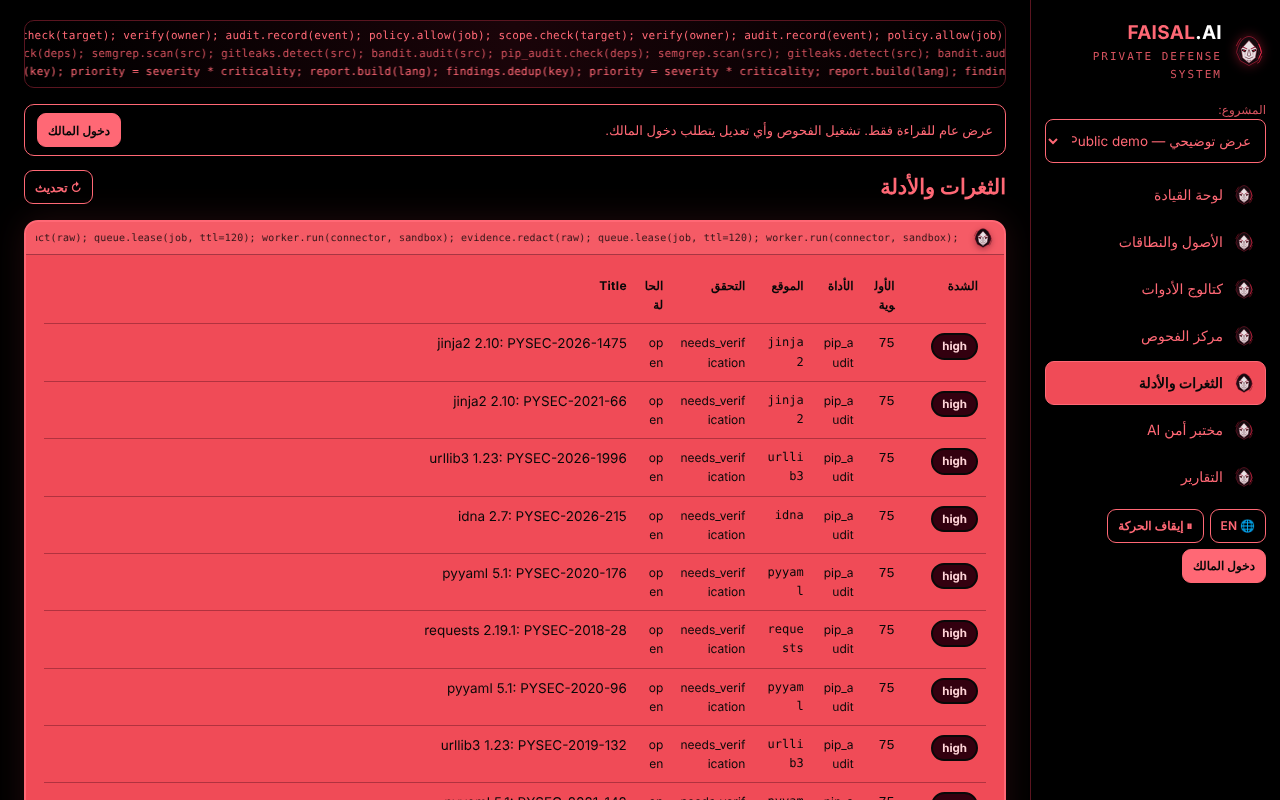
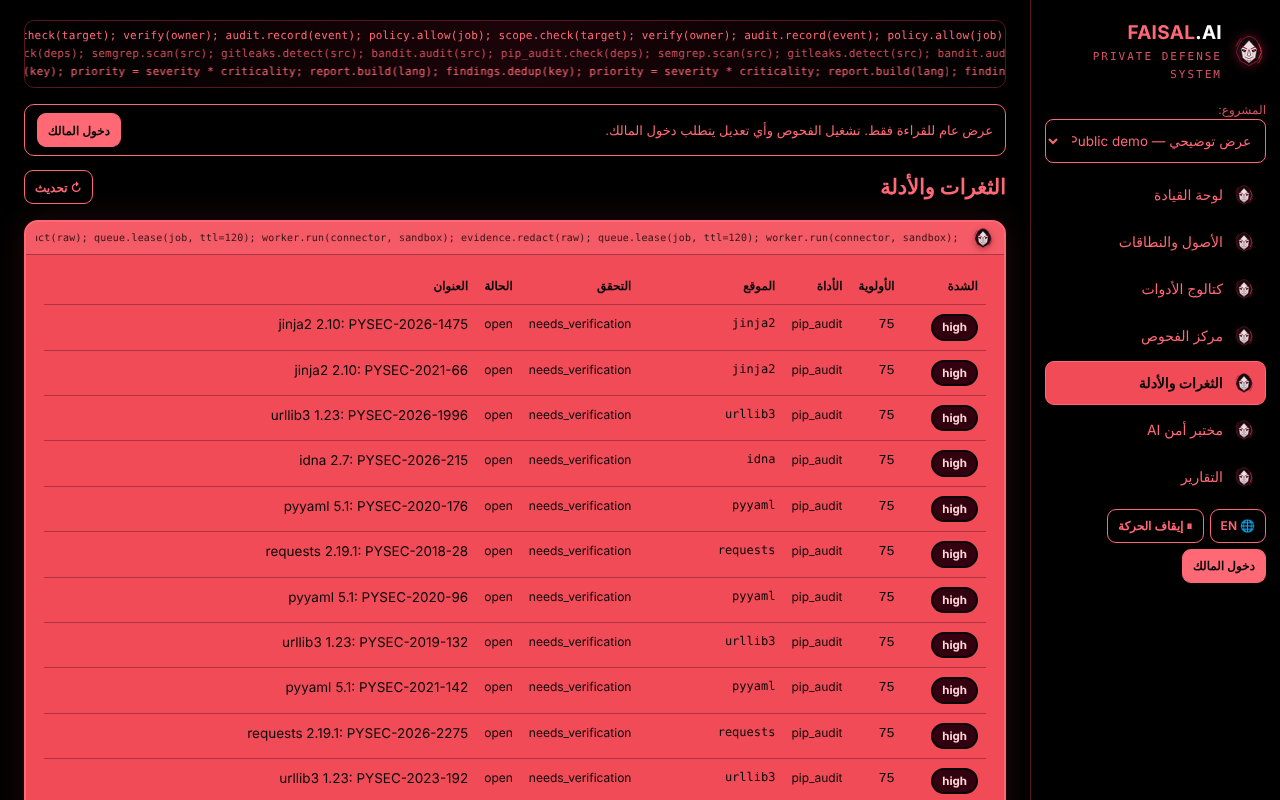
Make the console usable on a phone and stop probing every tool when a screen opens
- Tables with headings are shown as a list on a phone (each value after its
  column name). Before, the page's break-anywhere rule let columns shrink to
  one letter per line.
- Inputs without a type attribute now get the form styling; they kept the
  browser's fixed width and pushed two owner screens wider than the phone.
- GET /api/connectors is answered from the stored tool registry for signed-in
  callers too. It ran every tool's version command on each call, so opening
  Assets or Scans took seconds on a laptop and would take minutes on a
  0.1-CPU instance. ?live=1 still probes; before the first sync has finished
  the listing says the tools are being checked.
- The findings table's Title heading is translated.
- Screenshots retaken; test counts updated (280).

Claude-Session: https://claude.ai/code/session_01CMJzrzNCwDyxNvxZSMQwSR

diff --git a/faisal-security-lab/web/app.js b/faisal-security-lab/web/app.js
@@ -33,6 +33,7 @@ const I18N = {
     open:"فتح", download:"تنزيل", report_note:"التقارير منقّحة: القيم الحساسة محجوبة.",
     throttled:"محاولات دخول خاطئة كثيرة من هذا الجهاز. انتظر {m} دقيقة ثم حاول من جديد.",
     signinbusy:"تسجيل الدخول مشغول الآن. انتظر بضع ثوانٍ ثم حاول من جديد.",
+    ftitle:"العنوان",
     connection:"الاتصال", yourip:"عنوانك كما يراه الخادم", ipsource:"مصدر العنوان",
     src_header:"ترويسة منصّة الاستضافة", src_forwarded:"X-Forwarded-For", src_peer:"اتصال مباشر",
     proxywarn:"تصل الطلبات عبر وسيط لكن الخادم غير مضبوط للوثوق به، فيظهر كل الزوّار بعنوان واحد وتُحتسب محاولات الدخول الخاطئة عليهم جميعًا. اضبط FSL_CLIENT_IP_HEADER في إعدادات الاستضافة.",
@@ -62,6 +63,7 @@ const I18N = {
     open:"Open", download:"Download", report_note:"Reports are redacted: sensitive values are withheld.",
     throttled:"Too many wrong sign-in attempts from this device. Wait {m} minutes, then try again.",
     signinbusy:"Sign-in is busy right now. Wait a few seconds, then try again.",
+    ftitle:"Title",
     connection:"Connection", yourip:"Your address as the server sees it", ipsource:"Address source",
     src_header:"hosting platform header", src_forwarded:"X-Forwarded-For", src_peer:"direct connection",
     proxywarn:"Requests arrive through a proxy the server is not set to trust, so every visitor appears under one address and wrong sign-in attempts count against all of them. Set FSL_CLIENT_IP_HEADER in the hosting settings.",
@@ -204,6 +206,15 @@ function decorate(){
     if (tb.parentElement.classList.contains("tablewrap")) return;
     const wrap = document.createElement("div"); wrap.className = "tablewrap";
     tb.parentNode.insertBefore(wrap, tb); wrap.appendChild(tb);
+  });
+  // Name every cell after its column, so a phone can show a row as a list.
+  document.querySelectorAll(".tablewrap > table").forEach(tb => {
+    const heads = [...tb.querySelectorAll("thead th")].map(th => th.textContent.trim());
+    if (!heads.length) return;
+    tb.classList.add("stack");
+    tb.querySelectorAll("tbody > tr").forEach(tr => [...tr.children].forEach((td, i) => {
+      if (!td.hasAttribute("data-label") && !td.hasAttribute("colspan")) td.setAttribute("data-label", heads[i] || "");
+    }));
   });
   if (S.guest && !S.token) document.querySelectorAll(OWNER_ACTS).forEach(el => el.setAttribute("data-owner",""));
 }
@@ -387,7 +398,7 @@ async function scrScans(){
     + h`<div class="card"><h2>${esc(t("run"))}</h2>
       <form id="scanform" class="row">
         <div><label>${esc(t("scope"))}</label><select name="scope_id">${activeScopes.map(s=>`<option value="${s.id}" data-asset="${s.asset_id}" data-types='${JSON.stringify(s.scan_types)}'>${esc(s.asset_id)} · ${esc(s.environment)}</option>`).join("")}</select></div>
-        <div><label>${esc(t("connector"))}</label><select name="connector" id="connsel">${conn.connectors.map(c=>`<option value="${c.name}">${c.name} ${c.readiness.available?"":"(blocked)"}</option>`).join("")}</select></div>
+        <div><label>${esc(t("connector"))}</label><select name="connector" id="connsel">${conn.connectors.map(c=>`<option value="${c.name}">${c.name} ${c.readiness.available?"":(c.state==="checking"?"(…)":"(blocked)")}</option>`).join("")}</select></div>
         <div><button class="btn primary">${esc(t("run"))}</button></div>
       </form><div class="small muted" style="margin-top:6px">${esc(t("unauthorized"))}</div></div>
     <div class="card"><h2>${esc(t("jobs"))}</h2><table><thead><tr><th>${esc(t("connector"))}</th><th>${esc(t("status"))}</th><th>phase</th><th>progress</th><th>${esc(t("tool"))}</th><th></th></tr></thead>
@@ -403,7 +414,7 @@ async function scrFindings(){
   const pid=S.project.id;
   const f=await api(`/api/projects/${pid}/findings`);
   setMain(topbar(t("findings"), `<button class="btn sm" data-act="refresh">↻ ${esc(t("refresh"))}</button>`)
-    + h`<div class="card"><table><thead><tr><th>${esc(t("severity"))}</th><th>${esc(t("priority"))}</th><th>${esc(t("tool"))}</th><th>${esc(t("location"))}</th><th>${esc(t("verification"))}</th><th>${esc(t("status"))}</th><th>Title</th></tr></thead>
+    + h`<div class="card"><table><thead><tr><th>${esc(t("severity"))}</th><th>${esc(t("priority"))}</th><th>${esc(t("tool"))}</th><th>${esc(t("location"))}</th><th>${esc(t("verification"))}</th><th>${esc(t("status"))}</th><th>${esc(t("ftitle"))}</th></tr></thead>
       <tbody>${f.findings.map(x=>{const loc=x.location||{};const L=(loc.file||loc.url||loc.host||loc.package||"")+(loc.line?":"+loc.line:"");
         return `<tr data-act="finding" data-fid="${x.id}" style="cursor:pointer"><td><span class="badge sev-${x.severity}">${x.severity}</span></td>
         <td class="mono">${x.work_priority}</td><td class="small">${esc(x.connector)}</td><td class="mono-sm">${esc(L)}</td>

diff --git a/faisal-security-lab/web/app.css b/faisal-security-lab/web/app.css
@@ -125,7 +125,13 @@ select#projsel{width:100%;background:#000;border:1px solid var(--text);color:var
 /* tables inside cards scroll sideways on a phone instead of breaking the page */
 .tablewrap{overflow-x:auto;margin-inline:-6px;padding-inline:6px}
 table{width:100%;border-collapse:collapse;font-size:13.5px}
-th,td{border-block-end:1px solid #33000f55;padding:9px 8px;text-align:start;vertical-align:top}
+th,td{border-block-end:1px solid #33000f55;padding:9px 8px;text-align:start;vertical-align:top;
+  overflow-wrap:break-word}
+/* The page breaks long words anywhere, which lets a table column shrink to one
+   letter. In a table a column is at least as wide as its longest word, and the
+   table scrolls inside its card if that does not fit. */
+th{white-space:nowrap}
+td.mono-sm{overflow-wrap:anywhere;min-width:9rem}
 th{font-weight:750;font-size:12px;letter-spacing:.3px}
 tr[data-act]{cursor:pointer}
 tr[data-act]:hover td{background:#ff7a8355}
@@ -140,7 +146,7 @@ tr[data-act]:hover td{background:#ff7a8355}
 .card .pill,.drawer .pill,.stat .pill,.login .pill{border-color:var(--stroke)}
 
 label{display:block;font-size:12.5px;font-weight:700;margin:10px 0 4px}
-input[type=text],input[type=email],input[type=password],input[type=number],select,textarea{
+input:not([type]),input[type=text],input[type=email],input[type=password],input[type=number],select,textarea{
   width:100%;background:var(--card2);border:1px solid var(--stroke);color:var(--ink);
   padding:9px 10px;border-radius:8px;font-size:15px;min-height:44px;caret-color:var(--ink)}
 input::placeholder,textarea::placeholder{color:#3a1118;opacity:1}
@@ -215,6 +221,17 @@ body.guest form,body.guest [data-owner]{display:none !important}
   .grid.cols-4{grid-template-columns:repeat(2,minmax(0,1fr))}
   .grid.cols-3,.grid.cols-2{grid-template-columns:1fr}
   .kv{grid-template-columns:1fr}
+}
+/* On a phone a table with headings is shown as a list: one block per row,
+   each value after its heading (set as data-label by the script). */
+@media (max-width:640px){
+  table.stack,table.stack tbody,table.stack tr,table.stack td{display:block;width:100%}
+  table.stack thead{position:absolute;width:1px;height:1px;overflow:hidden;clip-path:inset(50%)}
+  table.stack tr{border-block-end:2px solid #33000f66;padding-block:8px}
+  table.stack tr:last-child{border-block-end:0}
+  table.stack td{border:0;padding:3px 0;min-width:0;overflow-wrap:anywhere}
+  table.stack td[data-label]:not([data-label=""])::before{content:attr(data-label) ": ";font-weight:700;
+    font-family:Tahoma,'Segoe UI',Arial,sans-serif;font-size:13.5px}
 }
 @media (prefers-reduced-motion:reduce){
   html:not(.motion) .mask .laser,html:not(.motion) .codebar>span{animation-play-state:paused}

diff --git a/faisal-security-lab/tests/test_public_view_hardening.py b/faisal-security-lab/tests/test_public_view_hardening.py
@@ -939,12 +939,21 @@ class TestGuestConnectorListing(HardeningCase):
                 self.assertEqual(self.get("/api/connectors")[0], 200)
             self.assertEqual(live.call_count, 0)
             self.assertEqual(self.probes, [])
-            # A signed-in caller still gets a live probe on every request.
+            # A signed-in caller is answered from the registry too: opening a
+            # screen must not run every tool's version command.
             token = self.owner_token()
             for _ in range(2):
-                self.assertEqual(self.get("/api/connectors", token=token)[0], 200)
-            self.assertEqual(live.call_count, 2)
-        self.assertGreater(len(self.probes), 5)
+                status, body = self.get("/api/connectors", token=token)
+                self.assertEqual(status, 200)
+                self.assertGreater(len(body["connectors"]), 5)
+            self.assertEqual((live.call_count, self.probes), (0, []))
+            # A fresh probe is there when asked for.
+            self.assertEqual(self.get("/api/connectors?live=1", token=token)[0], 200)
+            self.assertEqual(live.call_count, 1)
+            # The flag does nothing for a guest.
+            self.probes.clear()
+            self.assertEqual(self.get("/api/connectors?live=1")[0], 200)
+            self.assertEqual((live.call_count, self.probes), (1, []))
         for name in ("GUEST_CONNECTORS_TTL", "_CONNECTORS_CACHE", "_CONNECTORS_LOCK"):
             self.assertFalse(hasattr(server, name), name)
 
@@ -953,7 +962,7 @@ class TestGuestConnectorListing(HardeningCase):
         from app.connectors import connector_names, sync_registry
         sync_registry()
         store.set_tool_state("bandit", "verified", verified_ref="bandit@test")
-        _, live = self.get("/api/connectors", token=self.owner_token())
+        _, live = self.get("/api/connectors?live=1", token=self.owner_token())
         _, guest = self.get("/api/connectors")
         live = {c["name"]: c for c in live["connectors"]}
         guest = {c["name"]: c for c in guest["connectors"]}
@@ -967,6 +976,19 @@ class TestGuestConnectorListing(HardeningCase):
             self.assertNotIn("path", entry["readiness"])
         self.assertEqual(guest["bandit"]["state"], "verified")
         self.assertEqual(guest["gitleaks"]["state"], "ready")
+
+    def test_a_signed_in_caller_is_not_made_to_wait_for_the_first_sync(self):
+        from app.connectors import connector_names
+        token = self.owner_token()
+        status, body = self.get("/api/connectors", token=token)
+        self.assertEqual(status, 200)
+        self.assertEqual(self.probes, [])                         # nothing was run
+        self.assertEqual(sorted(c["name"] for c in body["connectors"]), connector_names())
+        for entry in body["connectors"]:
+            self.assertEqual(entry["state"], "checking")
+            self.assertEqual(entry["readiness"],
+                             {"available": False, "detail": "tools are still being checked"})
+            self.assertIn("capabilities", entry)
 
     def test_a_registry_row_without_a_connector_is_still_listed(self):
         from app import store

diff --git a/faisal-security-lab/app/server.py b/faisal-security-lab/app/server.py
@@ -893,9 +893,11 @@ def tools_sync(req: Req):
     return 200, {"synced": out}
 
 
-# Readiness is probed live for signed-in callers (it runs each tool's version
-# command). A guest is answered from the stored tool registry instead, so
-# anonymous traffic never starts a process on the server.
+# Probing readiness runs every tool's version command, which takes seconds on a
+# laptop and minutes on a small instance. The listing is therefore read from
+# the stored tool registry (filled by the startup sync and by an admin's
+# POST /api/tools/sync). A signed-in caller can ask for a fresh probe with
+# ?live=1; a guest never starts a process on the server.
 def _connectors_live() -> list:
     out = []
     for c in all_connectors():
@@ -924,11 +926,23 @@ def _connectors_from_registry() -> list:
     return out
 
 
+def _connectors_pending() -> list:
+    """The listing for a signed-in caller before the first registry sync has
+    finished: what the code knows about each connector, nothing probed."""
+    return [{"name": c.name, "category": c.category, "source": c.source,
+             "license": c.license, "connector_type": c.connector_type,
+             "capabilities": c.capabilities(),
+             "readiness": {"available": False, "detail": "tools are still being checked"},
+             "state": "checking"} for c in all_connectors()]
+
+
 @route("GET", r"/api/connectors", guest_ok=True)
 def connectors(req: Req):
     if req.principal.guest:
         return 200, {"connectors": _connectors_from_registry()}
-    return 200, {"connectors": _connectors_live()}
+    if req.q("live") == "1":
+        return 200, {"connectors": _connectors_live()}
+    return 200, {"connectors": _connectors_from_registry() or _connectors_pending()}
 
 
 # ===========================================================================

diff --git a/faisal-security-lab/specs/tasks.md b/faisal-security-lab/specs/tasks.md
@@ -9,7 +9,7 @@
 | T5 | Findings + evidence + reports | `app/findings.py app/evidence.py app/reports.py` | `TestConnectors/Redaction/Reports` | ✅ verified |
 | T6 | AI layer + safety | `app/ai/*` | `TestAISafety`, gate 5 | ✅ verified (fallback; live provider unconfigured) |
 | T7 | HTTP API + bilingual UI | `app/server.py web/*` | HTTP flow + `evidence/ui/*.png` | ✅ verified |
-| T8 | Tests, failure modes, acceptance, CI, deploy, docs | `tests/* scripts/* deploy/* .github/* docs/*` | `make test`, `make acceptance` | ✅ verified (10/10, 279 tests) |
+| T8 | Tests, failure modes, acceptance, CI, deploy, docs | `tests/* scripts/* deploy/* .github/* docs/*` | `make test`, `make acceptance` | ✅ verified (10/10, 280 tests) |
 | T9 | Start-up that survives mistyped owner settings; fast bind; storage fallback; non-root entrypoint | `app/auth.py app/bootstrap.py app/config.py app/worker.py app/connectors/registry.py deploy/entrypoint.sh` | `tests/test_setup_robustness.py`, `tests/test_platform_hardening.py`, `tests/test_deploy_seams.py` | ✅ verified (tests + container runs) |
 | T10 | Sign-in protection: client address from a declared proxy, per-client limits with no account lock, fair turns for the password check, bounded audit | `app/server.py app/auth.py docs/OPERATIONS.md` | `tests/test_signin_hardening.py` | ✅ verified (tests; flood runs at 0.1 CPU) |
 | T11 | Optional public read-only view with a seeded demo project and a single guest filter | `app/demo.py app/guest_view.py app/server.py` | `tests/test_public_view.py`, `tests/test_public_view_hardening.py` | ✅ verified (tests + live loopback run) |

diff --git a/faisal-security-lab/ACCEPTANCE.md b/faisal-security-lab/ACCEPTANCE.md
@@ -20,7 +20,7 @@ Re-run with `make acceptance` (writes `evidence/acceptance-report.json`) and
 | 9 | Verified fix: fix reaches the asset, finding gone on re-scan before closing | ✅ verified-by-run | re-scan job (Bandit-anchored) did not re-observe the fixed finding → `fixed_on_asset` |
 | 10 | Auditable delivery: every Verified tool has version+connector+evidence; blockers stated | ✅ verified-by-run | 4 verified tools with version+ref; trivy/osv/ai_redteam blockers named |
 
-Tests: `make test` → **279 tests** (`tests/test_platform.py` 29, `tests/test_failure_modes.py` 9, `tests/test_setup_robustness.py` 15, `tests/test_signin_hardening.py` 57, `tests/test_platform_hardening.py` 22, `tests/test_deploy_seams.py` 8, `tests/test_public_view.py` 56, `tests/test_public_view_hardening.py` 83) pass; real-tool tests auto-skip where a binary is absent, and one entrypoint test is skipped when the suite runs as root.
+Tests: `make test` → **280 tests** (`tests/test_platform.py` 29, `tests/test_failure_modes.py` 9, `tests/test_setup_robustness.py` 15, `tests/test_signin_hardening.py` 57, `tests/test_platform_hardening.py` 22, `tests/test_deploy_seams.py` 8, `tests/test_public_view.py` 56, `tests/test_public_view_hardening.py` 84) pass; real-tool tests auto-skip where a binary is absent, and one entrypoint test is skipped when the suite runs as root.
 
 ## Requirement → implementation → verification
 

diff --git a/faisal-security-lab/FINAL-REPORT.md b/faisal-security-lab/FINAL-REPORT.md
@@ -20,7 +20,7 @@ a hard structured-output safety contract, and a bilingual RTL/LTR operator conso
   evidence → report, through the standalone server with in-process workers.
 - **Policy enforcement over the live API:** an out-of-scope connector returns
   HTTP 403 `policy_denied`; SSRF to a private address is blocked.
-- **Tests:** 279 (`make test`) pass — RBAC/isolation, policy/scope/SSRF, queue
+- **Tests:** 280 (`make test`) pass — RBAC/isolation, policy/scope/SSRF, queue
   idempotency + crash-safety, connectors (known vs clean), dedup/reopen,
   redaction, AI safety, reports — plus the 9-row failure-mode matrix.
 - **Acceptance:** 10/10 gates (`make acceptance` → `evidence/acceptance-report.json`).
@@ -91,7 +91,7 @@ reaches the asset is confirmed by a re-scan before the finding is closed.
 ```bash
 cd faisal-security-lab
 make install-tools && make verify     # honest tool states
-make test                             # 279 tests
+make test                             # 280 tests
 make acceptance                       # 10 gates → evidence/acceptance-report.json
 make serve                            # open the console at http://127.0.0.1:8787
 ```

diff --git a/faisal-security-lab/docs/OPERATIONS.md b/faisal-security-lab/docs/OPERATIONS.md
@@ -30,7 +30,7 @@ rollout; the registry records version + last-verified reference per tool.
 
 ```bash
 curl -s localhost:8787/api/health
-curl -s -H "Authorization: Bearer $TOK" localhost:8787/api/connectors   # readiness per connector
+curl -s -H "Authorization: Bearer $TOK" localhost:8787/api/connectors   # readiness per connector, from the last sync (?live=1 probes now)
 curl -s -H "Authorization: Bearer $TOK" localhost:8787/api/tools         # registry states
 ```
 

diff --git a/faisal-security-lab/README.md b/faisal-security-lab/README.md
@@ -51,7 +51,7 @@ by default and strictly read-only; guests are never sent evidence text or server
 paths — see [docs/DEPLOY.md](docs/DEPLOY.md).
 
 ```bash
-make test                   # 279 unit + integration tests (real tools where present)
+make test                   # 280 unit + integration tests (real tools where present)
 make acceptance             # the 10 release-acceptance gates → evidence/acceptance-report.json
 ```
 
